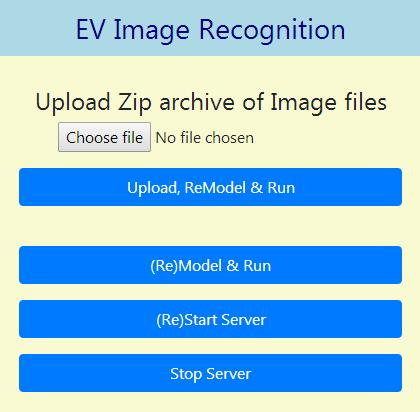
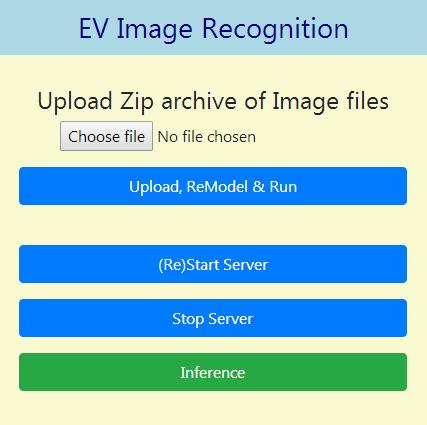
After restructuring

diff --git a/www/index.php b/www/index.php
@@ -1,0 +1,271 @@
+<?php
+
+session_start();
+
+$obj = new imgRecog();
+$obj->start();
+
+class imgRecog{
+	var $evServer = 'https://aicv.everlive.net/scripts/evml_ic/';
+	var $baseUri = ''; 
+	var $reqVars=null;
+	
+	public function __construct(){
+		$this->reqVars = $_REQUEST;
+		$this->baseUri 		= $this->getBaseUri();
+		if (@$_SERVER['HTTP_HOST']=='local0tools.com')
+			$this->evServer = 'http://fw_main.com/scripts/evml_ic/';
+	}
+
+	private function getBaseUri(){
+		$u = (isset($_SERVER['HTTPS']) && $_SERVER['HTTPS'] === 'on' ? "https" : "http") 
+			. "://$_SERVER[HTTP_HOST]$_SERVER[REQUEST_URI]";
+			
+		$u = explode('?',$u);
+		$u = $u[0];
+		$u = str_replace('/index.php','/',$u);
+		
+		return $u;
+	}
+	
+	public function start(){
+		$opt = @$this->reqVars['opt'];
+		if ($opt=='show_menu'){
+			$this->show_menu();
+			
+		}elseif ($opt=='inf_form'){
+			$this->inf_form();
+			
+		}else{
+			$this->show_menu();
+		}
+	}
+		
+	private function inf_form(){
+		$res = base64_decode( @$this->reqVars['res'] );
+		$json = json_decode($res);
+		//echo '<pre>';var_dump($json);echo '</pre>';
+		$arr=$json->prediction[0]; $res2 = '';
+		foreach($arr as $a){
+			$res2.=$a->class.': '. round($a->probability*100,2) .'%<br>';
+		}
+
+		$tkh = $this->getTokenHtml();
+		
+		$h = '<form method="post" enctype="multipart/form-data" id="requestjob" 
+					action="'.$this->evServer.'index.php?view=dojob">
+				<input type="hidden" name="project_id" id="project_id" value="1">
+				<input type="hidden" name="op_code" id="op_code" value="900">
+				<input type="hidden" name="cburl" id="cburl" value="">
+				'.$tkh.'
+				
+				<style>
+					#main-cont button{width:90%}
+					#dvres {color:blue}
+					#output{max-width: 90%;}
+				 </style>
+				 
+				 <div id="main-cont">
+				 <div id="dvres">'.$res2.'</div>
+				 <h5>Upload an Image to Classify</h5>
+				 <p><input type="file" name="data" accept="image/*" onchange="loadFile(event)"></p>
+				 
+				 <p><img id="output" style="" /></p>
+				 
+				 <p><button class="btn btn-primary" onclick="submit_form()" 
+						title="Upload image to classify by deep learning">Upload & Check</button></p>
+				 <p><a href="index.php" style="width:90%" class="btn btn-success">Return To Main</a></p>
+				 <br><br><br>
+				 </div>
+			</form>
+			<script>			
+			function submit_form(pjid,opcode){
+				document.querySelector("#cburl").value = encodeURIComponent(window.location.href.split("?")[0]);
+				document.querySelector("#requestjob").submit();
+			}
+			var loadFile = function(event) {
+				$("#dvres").html("");
+				var output = document.getElementById("output");
+				output.src = URL.createObjectURL(event.target.files[0]);
+			};
+			</script>
+			';
+		$this->echoPage($h);		
+	}
+	
+	private function getTokenHtml(){
+		$u 	= $this->evServer.'index.php?view=get_secu_token&cburl='.urlencode($this->baseUri).'&_='.microtime(true);
+		$token = $this->_getCurl($u);
+		
+		$h = '<input type="hidden" value="1" name="'.$token.'">';
+		return $h;
+	}
+		
+	private function show_menu(){
+		$pj=1;
+		$ret_op = (int) $this->some_in_proc();
+		if ($ret_op==100) $ret_op=50;
+		
+		$tkh = $this->getTokenHtml();
+		
+		//x $bt100 = $this->getOpBtn(100,$ret_op,'(Re)Model & Run'); 
+		$bt200 = $this->getOpBtn(200,$ret_op,'(Re)Start Server'); 
+		$bt300 = $this->getOpBtn(300,$ret_op,'Stop Server'); 
+		$bt50  = $this->getOpBtn(50, $ret_op,'Upload, ReModel & Run','Upload zip file which contain your dataset images.');
+		
+		$h = '<form method="post" enctype="multipart/form-data" id="requestjob" 
+					action="'.$this->evServer.'index.php?view=dojob">
+				<input type="hidden" name="project_id" id="project_id">
+				<input type="hidden" name="op_code" id="op_code">
+				<input type="hidden" name="cburl" id="cburl" value="">
+				'.$tkh.'
+				<style>
+					#main-cont button{width:90%}
+				 </style>
+				 <div id="main-cont">
+				 <h4>Upload Zip archive of Image files</h4>
+				 <p><input type="file" name="images_zip"></p>
+				 <p>'.$bt50.'</p><br>
+				 <p>'.$bt200.'</p>
+				 <p>'.$bt300.'</p>
+				 <p><a href="index.php?opt=inf_form" style="width:90%" class="btn btn-success">Inference</a></p>
+				 <br><br><br>
+				 </div>
+			</form>
+			<script>
+			function submit_form(pjid,opcode){
+				document.querySelector("#project_id").value=pjid;
+				document.querySelector("#op_code").value=opcode;
+				document.querySelector("#cburl").value=encodeURIComponent(window.location.href.split("?")[0]);
+				
+				document.querySelector("#requestjob").submit();
+			}
+			</script>
+			';
+		$this->echoPage($h);
+	}
+	
+	private function some_in_proc(){
+		$u = $this->evServer.'index.php?view=some_in_proc&cburl='.urlencode($this->baseUri).'&_='.microtime(true);
+		$res = $this->_getCurl($u);
+		return $res;
+	}
+
+	private function getOpBtn($op,$ret_op,$cap,$title=""){
+		$dis = '';
+		if ($ret_op>0){
+			$dis = ' disabled="disabled" ';
+		}
+		
+		$gif = 'loading.gif';
+		$pj = 1;
+		if ($title=='')$title=$cap;
+		$h = '<button class="btn btn-primary" onclick="submit_form('.$pj.','.$op.')" 
+				'.$dis.' title="'.$title.'">'.$cap.'</button>';
+
+		if ($ret_op>0 && $ret_op==$op){
+			$h='<div style="widthx:150px;"><img title="Current Operation: '.$cap.'" style="" src="'. $gif  .'" /></div>
+				<script>
+					setInterval(function(){
+						var url="'.$this->evServer.'index.php?view=some_in_proc&op_code='.$op.'"
+							+"&cburl="+encodeURIComponent(window.location.href.split("?")[0])
+							+"&is_ajax=1&_"+new Date().getTime();
+						jQuery.get(url, {
+							}).done(function(data) {
+								if (data=="0") window.location="index.php";
+							});
+						},3000);
+				</script>
+					';
+		}
+		
+		return $h;
+	}
+
+	private function echoPage($h){
+		$msg = @$this->reqVars['rdrmsg'];
+		$msgDiv='';
+		if ($msg!='') $msgDiv='<div class="alert alert-secondary"><h4>'.$msg.'</h4></div>';
+		
+		$h = '<html>
+				<head>
+					<meta charset="utf-8">
+					<base href="'.$this->baseUri.'" />
+					
+					<meta name="viewport" content="width=device-width, initial-scale=1, maximum-scale=1" />
+
+					<link rel="stylesheet" href="https://stackpath.bootstrapcdn.com/bootstrap/4.3.1/css/bootstrap.min.css" integrity="sha384-ggOyR0iXCbMQv3Xipma34MD+dH/1fQ784/j6cY/iJTQUOhcWr7x9JvoRxT2MZw1T" crossorigin="anonymous">
+					
+					<style>
+						body {background-color:lightgoldenrodyellow; text-align:center}
+						@media only screen and (min-width: 641px) {
+							#page-container{width: 640px;  display: inline-block; background-color: lightyellow;}
+						}
+						#main-cont{margin-top:30px}
+						.mainhead{background: lightblue;padding: 12px;}
+						.footer { position: absolute; left: 0; bottomZ: 0; width: 100%; background-color: #E6E6BC;
+									color: #B7B4B4;  text-align: center; font-size:60%; padding:3px}
+						table {}
+						.cmh2 {margin-left: 10px}
+					</style>
+					<script src="https://ajax.googleapis.com/ajax/libs/jquery/3.4.1/jquery.min.js"></script>
+				</head>
+				
+				<body>
+					<div id="page-container">
+						<h3 class="mainhead"><a style="text-decoration:none;color:darkblue" href="index.php">EV Image Recognition</a></h3>
+						<div id="main-cont" class="">
+							'.$msgDiv.'
+							'.$h.'
+						</div>
+					</div>
+					<script>
+						var e = document.querySelector("#page-container");
+						var b = document.querySelector("body");
+						if (e.scrollHeight <= b.clientHeight){
+							//document.querySelector("body").onload = //function(){document.querySelector(".footer").style.bottom="0px";};
+						}
+					</script>
+				</body>
+			  </html>';
+
+		$this->burstCache();
+		echo $h;
+	}
+	
+	private function burstCache(){
+		header("Cache-Control: no-store, no-cache, must-revalidate, max-age=0");
+		header("Cache-Control: post-check=0, pre-check=0", false);
+		header("Pragma: no-cache");
+	}
+
+	function _getCurl( $url,$method='get',$postData='' ){
+		$ch = curl_init();
+	    curl_setopt( $ch, CURLOPT_URL, $url );
+		curl_setopt( $ch, CURLOPT_RETURNTRANSFER, true );
+		
+		if ($method=='post'){
+			curl_setopt($ch, CURLOPT_POST, 1);
+			curl_setopt($ch, CURLOPT_POSTFIELDS, $postData);
+		}
+
+		//
+		$User_Agent = 'Mozilla/5.0 (Windows; U; Windows NT 10.0; en-US) AppleWebKit/604.1.38 (KHTML, like Gecko) Chrome/68.0.3325.162';
+		$request_headers = array();
+		$request_headers[] = 'User-Agent: '. $User_Agent;
+		$request_headers[] = 'Accept: text/html,application/xhtml+xml,application/xml;q=0.9,*/*;q=0.8';
+		curl_setopt($ch, CURLOPT_HTTPHEADER, $request_headers);		
+		
+		curl_setopt( $ch, CURLOPT_SSL_VERIFYHOST, false );
+		curl_setopt( $ch, CURLOPT_SSL_VERIFYPEER, false );		
+		curl_setopt( $ch, CURLOPT_FOLLOWLOCATION, true);
+
+	    $content = curl_exec( $ch );
+	    $response = curl_getinfo( $ch );
+	    curl_close ( $ch );
+
+		return $content;
+	}
+	
+}
+
